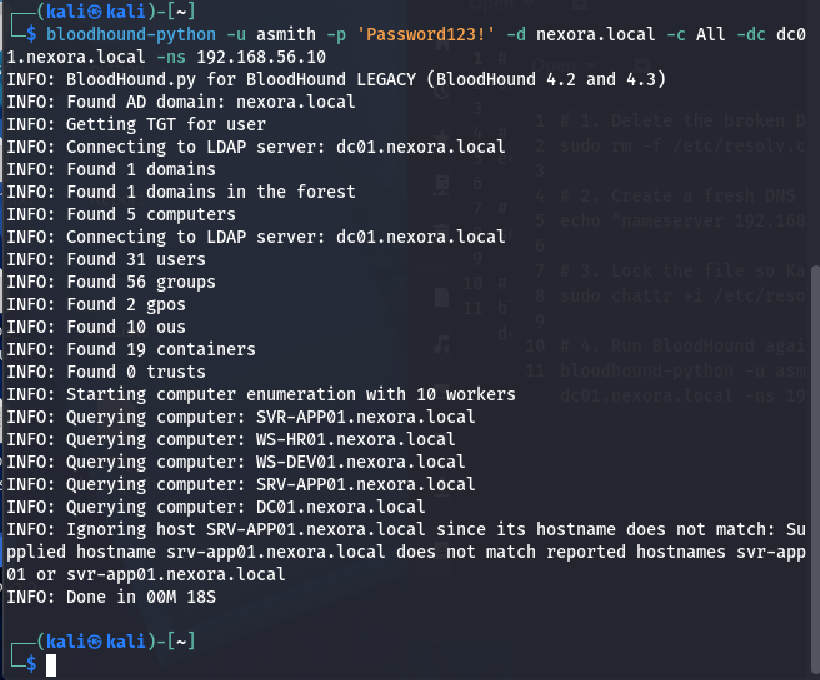
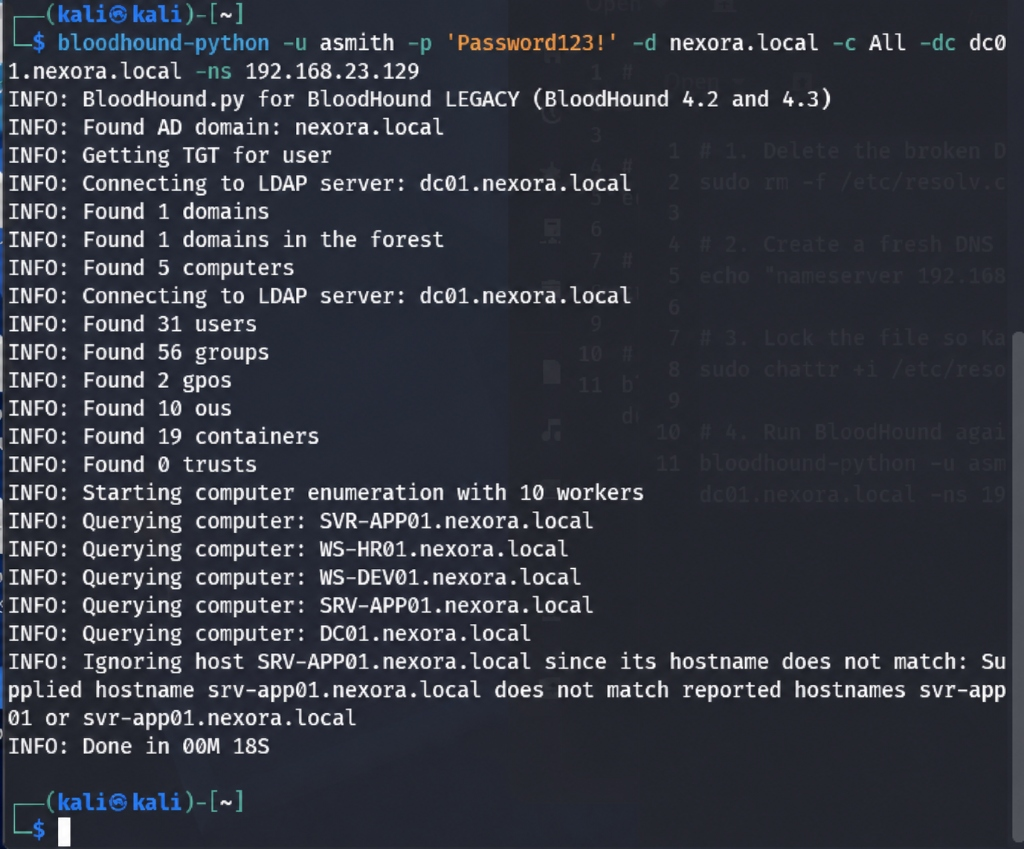
docs(screenshots): replace legacy 192.168.56.x screenshots with updated 192.168.23.129 captures for SMB share discovery and BloodHound enumeration

diff --git a/docs/screenshots/README.md b/docs/screenshots/README.md
@@ -138,10 +138,10 @@ Full assessment report: [Nexora_AD_Lab_Assessment_Report.pdf](../Nexora_AD_Lab_A
 | Field | Value |
 | :--- | :--- |
 | **Attacker** | Kali Linux (`192.168.23.131`) |
-| **Target** | NEXORA-DC (`192.168.23.129`) |
-| **Command** | `smbclient.py 'nexora.local/jsmith:***REMOVED***'@192.168.23.129` |
+| **Target** | SVR-APP01 (`192.168.23.129`) |
+| **Command** | `netexec smb svr-app01.nexora.local -u asmith -p 'Password123!' --shares` |
 | **MITRE** | `T1135` (Network Share Discovery) |
-| **Evidence** | SMB share listing reveals `\\NEXORA-DC\NexoraApp` (readable), `C$`, `ADMIN$`, `NETLOGON`, `SYSVOL`. |
+| **Evidence** | SMB share enumeration via NetExec reveals shares `ADMIN$`, `AppDeploy$` (READ), `C$`, `Deploy$` (READ), `IPC$` (READ) on `SVR-APP01`. |
 
 ---
 
@@ -203,15 +203,16 @@ Full assessment report: [Nexora_AD_Lab_Assessment_Report.pdf](../Nexora_AD_Lab_A
 | **DC Target** | NEXORA-DC | `192.168.23.129` | LDAP queries, RPC password reset |
 | **Domain** | `nexora.local` | — | GenericAll ACE: `IT-Support` → `svc-sql` |
 
-### Screenshot 8: BloodHound Data Collecting (SharpHound)
+### Screenshot 8: BloodHound Data Collecting (bloodhound-python)
 ![BloodHound Collecting](attack_01_bloodhound_collecting.png)
 
 | Field | Value |
 | :--- | :--- |
-| **Collector Machine** | Windows 10 Client (`192.168.23.130`) |
-| **Target Domain** | `nexora.local` — DC: `192.168.23.129` |
-| **Tool** | `SharpHound.exe -c All --domain nexora.local` |
+| **Attacker / Collector** | Kali Linux (`192.168.23.131`) |
+| **Target Domain** | `nexora.local` — DC: `dc01.nexora.local` (`192.168.23.129`) |
+| **Tool** | `bloodhound-python -u asmith -p 'Password123!' -d nexora.local -c All -dc dc01.nexora.local -ns 192.168.23.129` |
 | **MITRE** | `T1069.002` (Permission Groups Discovery), `T1087.002` (Account Discovery) |
+| **Evidence** | Complete AD enumeration collected: 1 domain, 5 computers, 31 users, 56 groups, 2 GPOs, 10 OUs, 19 containers. |
 
 ---
 
@@ -321,7 +322,7 @@ Full assessment report: [Nexora_AD_Lab_Assessment_Report.pdf](../Nexora_AD_Lab_A
 | 5 | `attack_06_mitre_t1552_unsecured_creds.png` | `192.168.23.131` | `192.168.23.129` | `T1552.001` | Credentials |
 | 6 | `attack_07_path_b_kerberoasting.png` | `192.168.23.131` | `192.168.23.129` | `T1558.003` | Kerberoasting |
 | 7 | `attack_14_hash_txt_full.png` | `192.168.23.131` | `192.168.23.129` | `T1003.003` | Hash Dump |
-| 8 | `attack_01_bloodhound_collecting.png` | `192.168.23.130` | `192.168.23.129` | `T1069.002` | BloodHound |
+| 8 | `attack_01_bloodhound_collecting.png` | `192.168.23.131` | `192.168.23.129` | `T1069.002` | BloodHound |
 | 9 | `attack_02_bloodhound_uploads.png` | `192.168.23.131` | `192.168.23.129` | `T1069.002` | BloodHound |
 | 10 | `attack_03_bloodhound_uploads1.png` | `192.168.23.131` | `192.168.23.129` | `T1069.002` | BloodHound |
 | 11 | `attack_08_path_c_bloodhound_genericall.png` | `192.168.23.131` | `192.168.23.129` | `T1098` | ACL Abuse |

diff --git a/README.md b/README.md
@@ -108,7 +108,7 @@ An authorized, isolated Active Directory security lab designed to practice inter
 - **Security Lesson:** Misconfigured Active Directory object permissions create indirect privilege escalation chains that often evade perimeter defenses.
 - **MITRE ATT&CK:** [T1069.002](https://attack.mitre.org/techniques/T1069/002/) (Domain Groups Discovery), [T1098](https://attack.mitre.org/techniques/T1098/) (Account Manipulation).
 
-![BloodHound Data Collection — SharpHound](docs/screenshots/attack_01_bloodhound_collecting.png)
+![BloodHound Data Collection — bloodhound-python](docs/screenshots/attack_01_bloodhound_collecting.png)
 ![Path C — BloodHound GenericAll ACL Attack Path](docs/screenshots/attack_08_path_c_bloodhound_genericall.png)
 
 ### 🏆 Full Domain Compromise
